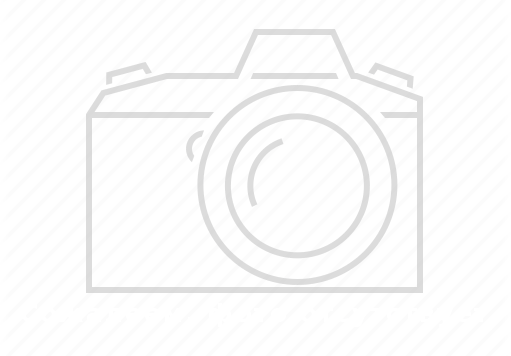
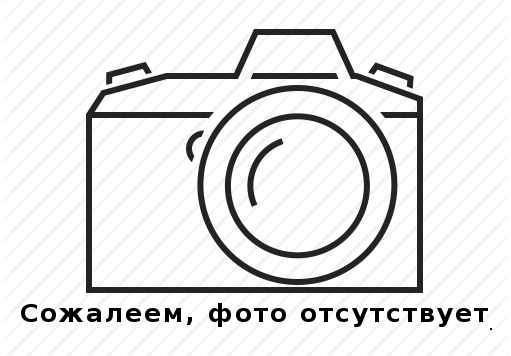
Шаринг полностью реализован.2

Changed region(s): [[0.1468, 0.0618, 0.8513, 0.927], [0.0294, 0.8343, 0.3816, 0.927], [0.5871, 0.8652, 0.9687, 0.927]]

diff --git a/CrazyHamster/app/src/main/java/ru/aleksandrorlov/crazyhamster/utils/DownloadImage.java b/CrazyHamster/app/src/main/java/ru/aleksandrorlov/crazyhamster/utils/DownloadImage.java
@@ -6,6 +6,7 @@ import android.content.Context;
 import android.content.ContextWrapper;
 import android.graphics.Bitmap;
 import android.graphics.BitmapFactory;
+import android.graphics.Color;
 import android.graphics.drawable.Drawable;
 import android.net.Uri;
 import android.os.AsyncTask;
@@ -32,7 +33,8 @@ public class DownloadImage extends AsyncTask<Void, Void, Void> {
     private final String LOG_TAG = this.getClass().getSimpleName();
     private final String NAME_DIR = "hamsters";
     private final String SCHEME = "file://";
-    private final String ERROR_DOWNLOAD = "error_download_image.jpg";
+    private final String ERROR_DOWNLOAD = "error_download_image.png";
+    private final String FILE_EXTENSION_JPG = "jpg";
 
     private Context context;
     private TreeMap<Integer, String> mapForDownloadImage;
@@ -86,7 +88,8 @@ public class DownloadImage extends AsyncTask<Void, Void, Void> {
                 if (SDWrite) {
                     path = new File(directory, fileName);
                     entry.setValue(path.getAbsolutePath());
-                    Log.d(LOG_TAG, "File save to SD, path = " + path.getAbsolutePath().toString());
+                    Log.d(LOG_TAG, "File save to SD, path = " + path.getAbsolutePath().toString().
+                            substring(path.getAbsolutePath().toString().length()-3,path.getAbsolutePath().toString().length()));
                 } else {
                     path = new File(directory, fileName);
                     entry.setValue(SCHEME + path.getAbsolutePath());
@@ -94,7 +97,14 @@ public class DownloadImage extends AsyncTask<Void, Void, Void> {
                 }
 
                 FileOutputStream out = new FileOutputStream(path);
-                bitmap.compress(Bitmap.CompressFormat.JPEG, 100, out);
+                String typeImage = getTypeImage(path);
+                Log.d(LOG_TAG, "typeImage.equals(FILE_EXTENSION_JPG) is " + typeImage.equals(FILE_EXTENSION_JPG));
+                if (typeImage.equals(FILE_EXTENSION_JPG)) {
+                    bitmap.compress(Bitmap.CompressFormat.JPEG, 100, out);
+                } else {
+                    bitmap.compress(Bitmap.CompressFormat.PNG, 100, out);
+                }
+
                 out.flush();
                 out.close();
             } catch (Exception e) {
@@ -152,5 +162,18 @@ public class DownloadImage extends AsyncTask<Void, Void, Void> {
         }
 
         return bitmap;
+    }
+
+    private String getTypeImage(File path) {
+        try {
+        /**3 - количество символов в расширении файла**/
+        int startSubstring = path.getAbsolutePath().toString().length() - 3;
+        int endSubstring = path.getAbsolutePath().toString().length();
+        return path.getAbsolutePath().toString().substring(startSubstring, endSubstring);
+
+        } catch (Exception e) {
+            e.printStackTrace();
+        }
+        return null;
     }
 }

diff --git a/CrazyHamster/app/src/main/java/ru/aleksandrorlov/crazyhamster/SearchResultsActivity.java b/CrazyHamster/app/src/main/java/ru/aleksandrorlov/crazyhamster/SearchResultsActivity.java
@@ -1,10 +1,51 @@
 package ru.aleksandrorlov.crazyhamster;
 
+import android.app.SearchManager;
+import android.content.Context;
+import android.content.Intent;
+import android.os.Bundle;
 import android.support.v7.app.AppCompatActivity;
+import android.support.v7.widget.SearchView;
+import android.view.Menu;
+import android.view.MenuInflater;
 
 /**
  * Created by alex on 03.06.17.
  */
 
 public class SearchResultsActivity extends AppCompatActivity {
+
+    @Override
+    protected void onCreate(Bundle savedInstanceState) {
+        super.onCreate(savedInstanceState);
+        setContentView(R.layout.activity_result);
+        handleIntent(getIntent());
+    }
+
+    @Override
+    public boolean onCreateOptionsMenu(Menu menu) {
+        MenuInflater inflater = getMenuInflater();
+        inflater.inflate(R.menu.main, menu);
+        SearchManager searchManager =
+                (SearchManager) getSystemService(Context.SEARCH_SERVICE);
+        SearchView searchView =
+                (SearchView) menu.findItem(R.id.menu_item_search).getActionView();
+        searchView.setSearchableInfo(
+                searchManager.getSearchableInfo(getComponentName()));
+
+        return true;
+    }
+
+    @Override
+    protected void onNewIntent(Intent intent) {
+        handleIntent(intent);
+    }
+
+    private void handleIntent(Intent intent) {
+
+        if (Intent.ACTION_SEARCH.equals(intent.getAction())) {
+            String query = intent.getStringExtra(SearchManager.QUERY);
+            //use the query to search
+        }
+    }
 }

diff --git a/CrazyHamster/app/src/main/java/ru/aleksandrorlov/crazyhamster/MainActivity.java b/CrazyHamster/app/src/main/java/ru/aleksandrorlov/crazyhamster/MainActivity.java
@@ -1,13 +1,17 @@
 package ru.aleksandrorlov.crazyhamster;
 
+import android.app.SearchManager;
+import android.content.Context;
 import android.content.Intent;
 import android.support.v4.view.MenuItemCompat;
 import android.support.v7.app.AppCompatActivity;
 import android.os.Bundle;
+import android.support.v7.widget.SearchView;
 import android.support.v7.widget.ShareActionProvider;
 import android.support.v7.widget.Toolbar;
 import android.util.Log;
 import android.view.Menu;
+import android.view.MenuInflater;
 import android.view.MenuItem;
 
 public class MainActivity extends AppCompatActivity {
@@ -34,6 +38,11 @@ public class MainActivity extends AppCompatActivity {
     @Override
     public boolean onCreateOptionsMenu(Menu menu) {
         Log.d(LOG_TAG, "onCreateOptionsMenu");
+        MenuInflater inflater = getMenuInflater();
+        inflater.inflate(R.menu.main, menu);
+        SearchManager searchManager = (SearchManager) getSystemService(Context.SEARCH_SERVICE);
+        SearchView searchView = (SearchView) menu.findItem(R.id.menu_item_search).getActionView();
+        searchView.setSearchableInfo(searchManager.getSearchableInfo(getComponentName()));
 
         return true;
     }
